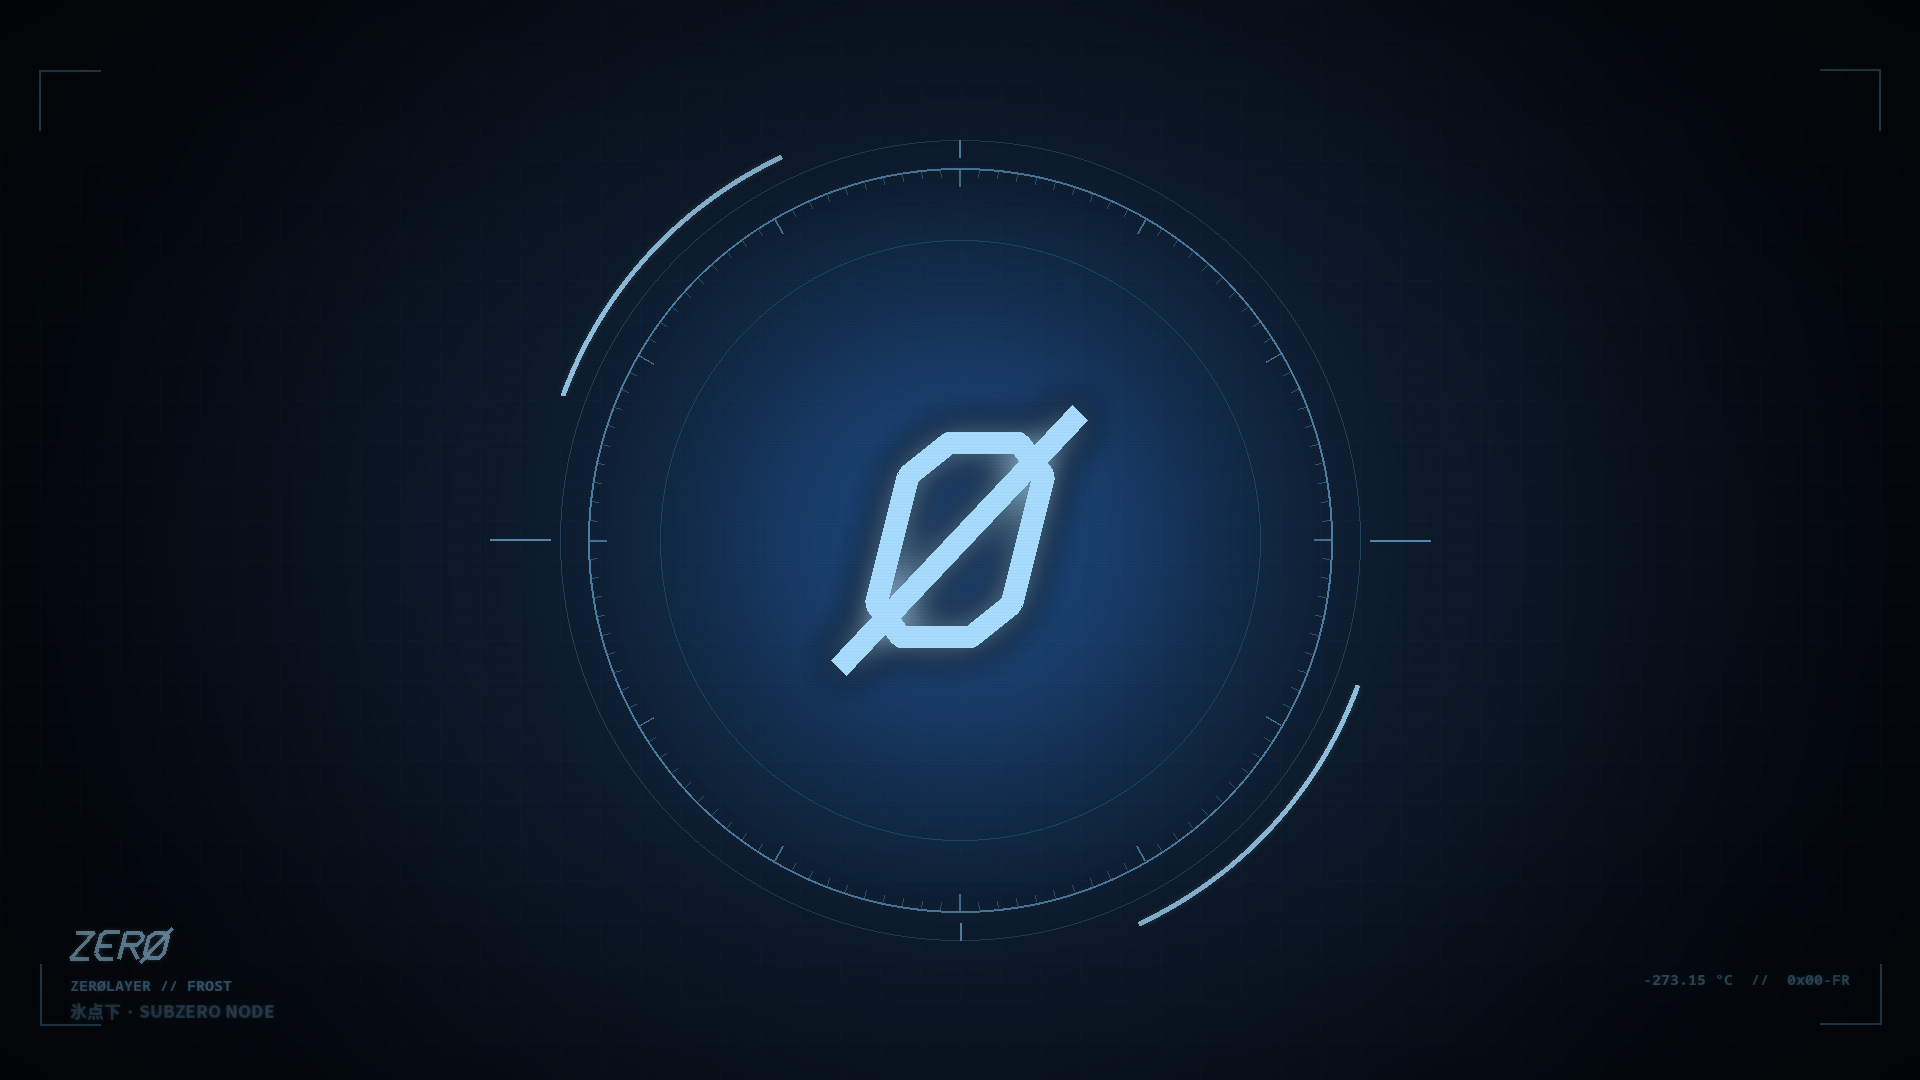
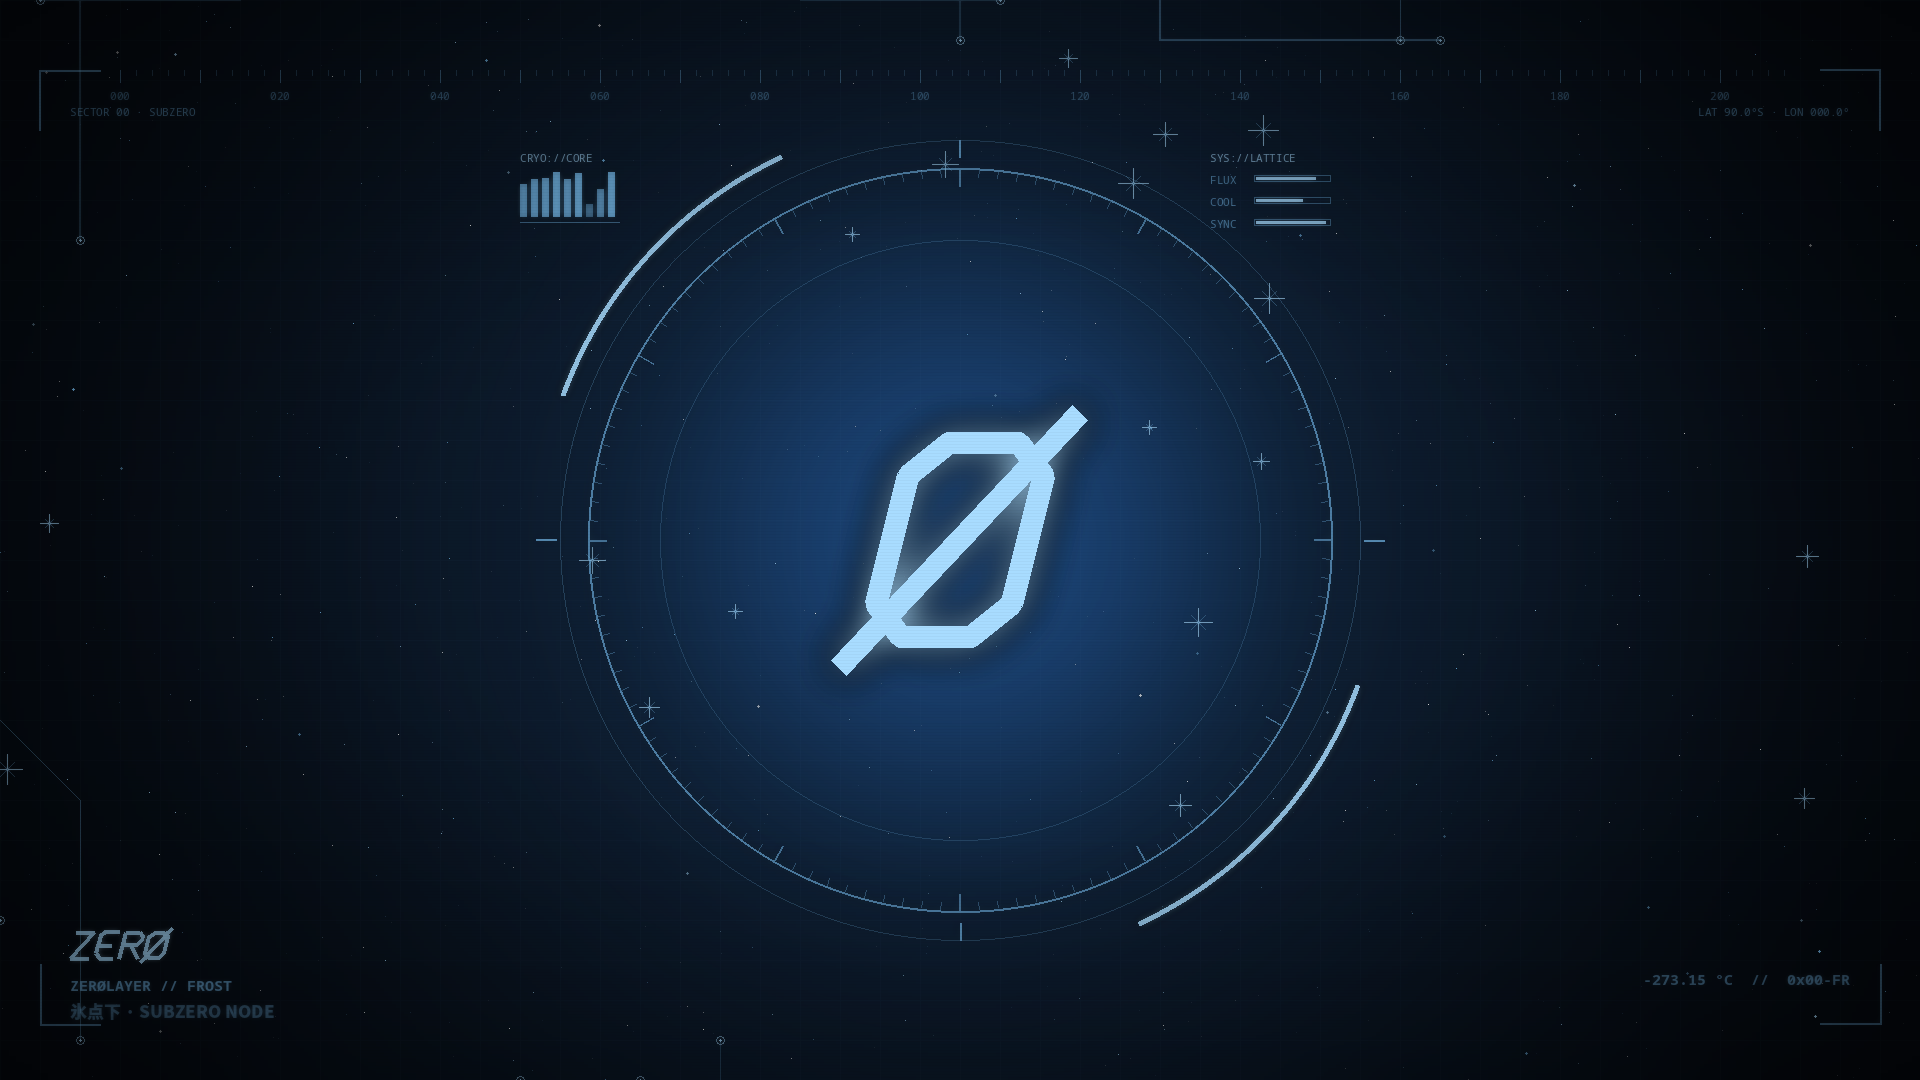
ZerØLayer 0.5.0: tema zero-mono y fondo de Frost con más detalle, sin tapar los widgets

Changed region(s): [[0.25, 0.1528, 0.3438, 0.2139], [0.625, 0.1528, 0.6875, 0.2139]]

diff --git a/modules/theme/generar.py b/modules/theme/generar.py
@@ -92,6 +92,17 @@ TEMAS = {
         hyprland_active_border="rgba(a879ffee) rgba(5de4c7ee) 45deg", hyprland_inactive_border="#221a38",
         superficie="#13101e", borde="#221a38", tenue="#8a82a3", acento2="#5de4c7", ok="#7fe0a8", aviso="#f2d07a", peligro="#ff6e8a",
     ),
+    "zero-mono": dict(
+        nombre="ZERØ Mono", kanji="無", yaru="Yaru", icono="Zero-Mono",
+        idea="Negro puro con luz blanca: retícula, anillos finos y un Ø de tiza.",
+        background="#050505", dark_background="#030303", darker_background="#010101", lighter_background="#101010",
+        foreground="#d8d8d8", dark_foreground="#8a8a8a", light_foreground="#ececec", bright_foreground="#ffffff",
+        accent="#f2f2f2", selection="#2a2a2a", muted="#5c5c5c",
+        red="#e08a8a", yellow="#d9cfa0", orange="#d9b08a", green="#a3c9ab", cyan="#a6cfd6", blue="#a9b8d6", magenta="#c6b0d6", brown="#9a8a7a",
+        bright_red="#f2a8a8", bright_yellow="#ece3b8", bright_green="#bfe0c6", bright_cyan="#c4e4ea", bright_blue="#c6d2ea", bright_magenta="#dccbea",
+        hyprland_active_border="#f2f2f2", hyprland_inactive_border="#262626",
+        superficie="#101010", borde="#262626", tenue="#8a8a8a", acento2="#bdbdbd", ok="#a3c9ab", aviso="#d9cfa0", peligro="#e08a8a",
+    ),
 }
 CLAVES_OMARCHY = ["accent", "selection", "muted", "background", "dark_background", "darker_background", "lighter_background",
                   "foreground", "dark_foreground", "light_foreground", "bright_foreground",
@@ -280,6 +291,23 @@ def codigo_barras(d, x, y, w, h, semilla, col, a):
         cx += bw + rnd.choice([2, 3, 4])
 
 
+# Zonas que tapan los widgets del escritorio (layout de ZerØLayer, coordenadas lógicas de 1536×960):
+# columna izquierda, columna derecha y banda del espectro. Los fondos no dibujan detalles ahí.
+def zonas(W, H, m=0):
+    f = lambda x0, y0, x1, y1: (x0 / 1536 * W - m, y0 / 960 * H - m, x1 / 1536 * W + m, y1 / 960 * H + m)
+    return [f(80, 100, 380, 710), f(1110, 100, 1425, 785), f(80, 800, 1456, 910)]
+
+
+def toca_zona(pts, W, H, m=0):
+    zs = zonas(W, H, m)
+    for (ax, ay), (bx, by) in zip(pts, pts[1:] or pts):
+        for k in range(25):
+            x, y = ax + (bx - ax) * k / 24, ay + (by - ay) * k / 24
+            if any(z[0] <= x <= z[2] and z[1] <= y <= z[3] for z in zs):
+                return True
+    return False
+
+
 SK = math.tan(math.radians(14))
 OCTO = [(424, 60), (470, 60), (492, 82), (492, 168), (470, 190), (424, 190), (402, 168), (402, 82)]
 
@@ -336,6 +364,30 @@ def fondo_frost(W, H, t):
     img = brillo(img, ov, S(3))
     halo, hd = capa(W, H); hd.ellipse([CX - S(340), CY - S(340), CX + S(340), CY + S(340)], fill=(40, 110, 200, 90))
     img = Image.alpha_composite(img, halo.filter(ImageFilter.GaussianBlur(S(120))))
+    # circuitos: pistas PCB con nodos, fuera del anillo central
+    ov, d = capa(W, H)
+    for k, pts in enumerate([p for p in pistas(W, H, 120, S(40), 7, (CX - S(500), CY - S(470), CX + S(500), CY + S(470)))
+                             if not toca_zona(p, W, H, S(16))]):
+        d.line(pts, fill=ICE + (46 if k % 3 else 80,), width=S(2) if k % 5 == 0 else 1, joint="curve")
+        for (px_, py_) in (pts[0], pts[-1]):
+            r = S(4)
+            d.ellipse([px_ - r, py_ - r, px_ + r, py_ + r], outline=ICE2 + (120,), width=1)
+            d.ellipse([px_ - 1, py_ - 1, px_ + 1, py_ + 1], fill=ICE2 + (190,))
+    img = brillo(img, ov, S(2))
+    # nieve y chispas de hielo
+    ov, d = capa(W, H); rnd = random.Random(11)
+    for _ in range(int(900 * W * H / (1920 * 1080))):
+        x, y = rnd.randrange(W), rnd.randrange(H); a = int(rnd.random() ** 3 * 190) + 20
+        c = rnd.choice([(255, 255, 255), ICE2, ICE])
+        if rnd.random() < .05: d.ellipse([x - 1, y - 1, x + 1, y + 1], fill=c + (min(255, a + 60),))
+        else: d.point((x, y), fill=c + (a,))
+    for _ in range(40):
+        x, y = rnd.randrange(W), rnd.randrange(H); L = S(rnd.randint(7, 15))
+        if toca_zona([(x - L, y - L), (x + L, y + L)], W, H, S(8)): continue
+        d.line([(x - L, y), (x + L, y)], fill=ICE2 + (150,), width=1); d.line([(x, y - L), (x, y + L)], fill=ICE2 + (150,), width=1)
+        d.line([(x - L // 2, y - L // 2), (x + L // 2, y + L // 2)], fill=ICE + (70,), width=1)
+        d.line([(x - L // 2, y + L // 2), (x + L // 2, y - L // 2)], fill=ICE + (70,), width=1)
+    img = brillo(img, ov, 1)
     ov, d = capa(W, H)
     for r, a, wd in [(S(400), 55, S(1)), (S(372), 150, S(2)), (S(300), 45, S(1))]:
         d.ellipse([CX - r, CY - r, CX + r, CY + r], outline=ICE + (a,), width=wd)
@@ -348,7 +400,7 @@ def fondo_frost(W, H, t):
     for a0, a1 in ((200, 245), (20, 65)):
         d.arc([CX - R, CY - R, CX + R, CY + R], a0, a1, fill=ICE2 + (210,), width=S(5))
     for sg in (-1, 1):
-        d.line([(CX + sg * S(410), CY), (CX + sg * S(470), CY)], fill=ICE + (170,), width=S(2))
+        d.line([(CX + sg * S(404), CY), (CX + sg * S(424), CY)], fill=ICE + (170,), width=S(2))
         d.line([(CX, CY + sg * S(383)), (CX, CY + sg * S(400))], fill=ICE + (170,), width=S(2))
     img = brillo(img, ov, S(4))
     E, d = capa(W, H)
@@ -361,6 +413,28 @@ def fondo_frost(W, H, t):
     d.text((S(70), H - S(82)), "氷点下 · SUBZERO NODE", font=fk, fill=ICE + (90,))
     d.text((W - S(70), H - S(112)), "-273.15 °C  //  0x00-FR", font=fm, fill=ICE + (120,), anchor="ra")
     esquinas(d, (S(40), S(70), W - S(40), H - S(56)), S(60), ICE, 110, S(2))
+    # regla superior con marcas
+    fr = fuente(F_MONO_R, S(11))
+    for i, x in enumerate(range(S(120), W - S(120), S(16))):
+        L = S(12) if i % 5 == 0 else S(5)
+        d.line([(x, S(70)), (x, S(70) + L)], fill=ICE + (90 if i % 5 == 0 else 50,), width=1)
+        if i % 10 == 0: d.text((x, S(70) + S(18)), "%03d" % (i * 2), font=fr, fill=ICE + (90,), anchor="ma")
+    # lecturas compactas en las esquinas del hueco central (entre las columnas de widgets)
+    rr = random.Random(5); px0, py0 = CX - S(440), S(150)
+    d.text((px0, py0), "CRYO://CORE", font=fr, fill=ICE2 + (150,))
+    for i in range(9):
+        hh = int(S(46) * (.25 + .75 * rr.random()))
+        d.rectangle([px0 + i * S(11), py0 + S(66) - hh, px0 + i * S(11) + S(6), py0 + S(66)], fill=ICE + (70 + int(120 * hh / S(46)),))
+    d.line([(px0, py0 + S(72)), (px0 + 9 * S(11), py0 + S(72))], fill=ICE + (110,), width=1)
+    qx, qy = CX + S(250), S(150)
+    d.text((qx, qy), "SYS://LATTICE", font=fr, fill=ICE2 + (150,))
+    for i, (n, v) in enumerate([("FLUX", .82), ("COOL", .64), ("SYNC", .97)]):
+        y = qy + S(22) + i * S(22)
+        d.text((qx, y), n, font=fr, fill=ICE + (130,))
+        d.rectangle([qx + S(44), y + S(3), qx + S(120), y + S(9)], outline=ICE + (90,), width=1)
+        d.rectangle([qx + S(46), y + S(5), qx + S(46) + int(S(72) * v), y + S(7)], fill=ICE2 + (190,))
+    d.text((S(70), S(104)), "SECTOR 00 · SUBZERO", font=fr, fill=ICE + (110,))
+    d.text((W - S(70), S(104)), "LAT 90.0°S · LON 000.0°", font=fr, fill=ICE + (110,), anchor="ra")
     img = brillo(img, ov, S(3))
     return lineas_barrido(vineta(img, .55), 8)
 
@@ -642,8 +716,63 @@ def fondo_void(W, H, t):
     return vineta(img, .6)
 
 
+def fondo_mono(W, H, t):
+    s = min(W / 1920, H / 1080); S = lambda v: max(1, int(v * s)); CX, CY = W // 2, H // 2
+    B, G = (245, 245, 245), (150, 150, 150)
+    img = radial(W, H, (0, 0, 0), (20, 20, 20), 2.2)
+    ov, d = capa(W, H)
+    for x in range(0, W, S(48)):
+        for y in range(0, H, S(48)):
+            d.point((x, y), fill=B + (60,))
+            if (x // S(48) + y // S(48)) % 8 == 0:
+                d.line([(x - 3, y), (x + 3, y)], fill=B + (90,)); d.line([(x, y - 3), (x, y + 3)], fill=B + (90,))
+    img = brillo(img, ov, 0)
+    halo, hd = capa(W, H); hd.ellipse([CX - S(300), CY - S(300), CX + S(300), CY + S(300)], fill=(255, 255, 255, 34))
+    img = Image.alpha_composite(img, halo.filter(ImageFilter.GaussianBlur(S(140))))
+    ov, d = capa(W, H)
+    for r, a, wd in [(S(385), 40, 1), (S(355), 70, S(1)), (S(290), 40, 1), (S(225), 55, 1)]:
+        d.ellipse([CX - r, CY - r, CX + r, CY + r], outline=B + (a,), width=wd)
+    for deg in range(0, 360, 2):
+        a = math.radians(deg); r0 = S(355); L = S(18) if deg % 30 == 0 else (S(9) if deg % 10 == 0 else S(4))
+        d.line([(CX + math.cos(a) * r0, CY + math.sin(a) * r0), (CX + math.cos(a) * (r0 + L), CY + math.sin(a) * (r0 + L))],
+               fill=B + (150 if deg % 30 == 0 else 70,), width=1)
+    R = S(385)
+    for a0, a1 in ((-100, -40), (80, 140), (170, 182)):
+        d.arc([CX - R, CY - R, CX + R, CY + R], a0, a1, fill=B + (230,), width=S(5))
+    d.line([(CX, CY - S(420)), (CX, CY - S(480))], fill=B + (140,), width=1)
+    img = brillo(img, ov, S(2))
+    E, d = capa(W, H)
+    o_barra(d, CX, CY, 1.9 * s, B, 255, S(5))
+    img = brillo(img, E, S(26), 2)
+    E, d = capa(W, H)
+    o_barra(d, CX, CY, 1.9 * s, B, 255, S(4))
+    img = Image.alpha_composite(img, E)
+    ov, d = capa(W, H); fm = fuente(F_MONO, S(15)); fr = fuente(F_MONO_R, S(12)); fk = fuente(F_CJK, S(17))
+    logotipo(d, S(70), H - S(148), S(26), B, 230, S(4))
+    d.text((S(70), H - S(106)), "ZERØLAYER // MONO", font=fm, fill=B + (170,))
+    d.text((S(70), H - S(82)), "無 · BLACK / WHITE", font=fk, fill=B + (110,))
+    d.text((W - S(70), H - S(112)), "#000000  //  #F2F2F2", font=fm, fill=B + (140,), anchor="ra")
+    esquinas(d, (S(40), S(70), W - S(40), H - S(56)), S(60), B, 140, S(2))
+    d.text((S(70), S(98)), "REF 0000-ZERO", font=fr, fill=B + (130,))
+    d.text((W - S(70), S(98)), "N 00°00′00″  E 000°00′00″", font=fr, fill=B + (130,), anchor="ra")
+    rr = random.Random(21); px0, py0 = CX - S(440), S(150)
+    d.text((px0, py0), "MONO://LEVEL", font=fr, fill=B + (150,))
+    for i in range(12):
+        x = px0 + i * S(9); hh = int(S(46) * (.15 + .85 * rr.random()))
+        d.rectangle([x, py0 + S(66) - hh, x + S(4), py0 + S(66)], fill=B + (60 + int(110 * hh / S(46)),))
+    codigo_barras(d, CX + S(250), S(150), S(110), S(26), 9, B, 120)
+    d.text((CX + S(250), S(184)), "00 / 00 / 00", font=fr, fill=B + (130,))
+    img = brillo(img, ov, S(2))
+    # grano
+    rnd = random.Random(8); gr, d = capa(W, H)
+    for _ in range(int(2400 * W * H / (1920 * 1080))):
+        d.point((rnd.randrange(W), rnd.randrange(H)), fill=(255, 255, 255, rnd.randint(8, 40)))
+    img = Image.alpha_composite(img, gr)
+    return vineta(img, .7)
+
+
 FONDOS = {"zero-frost": fondo_frost, "zero-corp": fondo_corp, "zero-neon": fondo_neon,
-          "zero-phosphor": fondo_phosphor, "zero-amber": fondo_amber, "zero-void": fondo_void}
+          "zero-phosphor": fondo_phosphor, "zero-amber": fondo_amber, "zero-void": fondo_void, "zero-mono": fondo_mono}
 
 
 def vista_previa(tid, t, fondo):

diff --git a/README.md b/README.md
@@ -33,7 +33,7 @@ git clone https://github.com/raulplz/ZeroLayer.git ~/.local/share/zerolayer
 
 | Módulo | Por defecto | Qué hace |
 |---|---|---|
-| `theme` | sí | Seis temas ZERØ para Omarchy (`zero-frost`, `zero-corp`, `zero-neon`, `zero-phosphor`, `zero-amber`, `zero-void`) con paleta, fondo a la resolución de tu monitor e iconos de carpeta propios. Escribe `~/.config/zerolayer/theme.json` al cambiar de tema (ver «Temas ZERØ»). |
+| `theme` | sí | Siete temas ZERØ para Omarchy (`zero-frost`, `zero-corp`, `zero-neon`, `zero-phosphor`, `zero-amber`, `zero-void`, `zero-mono`) con paleta, fondo a la resolución de tu monitor e iconos de carpeta propios. Escribe `~/.config/zerolayer/theme.json` al cambiar de tema (ver «Temas ZERØ»). |
 | `hyprland` | sí | Esquinas de 14 px, márgenes, desenfoque, atenuado leve de ventanas inactivas y animación de escritorios en deslizamiento. |
 | `gtk` | sí | Colores Frost en aplicaciones GTK3/GTK4 (Nautilus, ajustes…). |
 | `boot` | no | Arranque que sigue al tema activo: menú de Limine (colores, tu fondo de escritorio y datos del sistema) y pantallas de contraseña de disco y de sesión con el logo ZERØ. Pide sudo una vez para instalar un servicio de systemd. |
@@ -44,16 +44,17 @@ git clone https://github.com/raulplz/ZeroLayer.git ~/.local/share/zerolayer
 
 ## Temas ZERØ
 
-El módulo `theme` instala seis temas completos de Omarchy. Cada uno trae su paleta, un fondo a la resolución de tu monitor (1920×1200, 1920×1080 o 2560×1440), sus iconos de carpeta y su vista previa. Por eso también aparecen en el menú nativo de temas de Omarchy (Super + Alt + Espacio → Estilo → Tema).
+El módulo `theme` instala siete temas completos de Omarchy. Cada uno trae su paleta, un fondo a la resolución de tu monitor (1920×1200, 1920×1080 o 2560×1440), sus iconos de carpeta y su vista previa. Por eso también aparecen en el menú nativo de temas de Omarchy (Super + Alt + Espacio → Estilo → Tema).
 
 | Tema | Nombre | Acento | Idea |
 |---|---|---|---|
-| `zero-frost` | ZERØ Frost | `#4da3ff` | Azul hielo sobre negro, anillo HUD y circuitos. Es el de siempre. |
+| `zero-frost` | ZERØ Frost | `#4da3ff` | Azul hielo sobre negro: anillo HUD, circuitos, nieve y paneles de lectura. Es el de siempre. |
 | `zero-corp` | ZERØ Corp | `#e8182c` | Rojo y negro corporativo, kanji 零, katakana y franjas de seguridad. |
 | `zero-neon` | ZERØ Neon | `#ff2bd6` | Barrio de neón con lluvia y rejilla al horizonte; cian `#22e5ff` como segundo acento. |
 | `zero-phosphor` | ZERØ Phosphor | `#39ff6a` | Terminal de fósforo verde, líneas de barrido y brillo de tubo. |
 | `zero-amber` | ZERØ Amber | `#ffb000` | Laboratorio de señal en ámbar, retícula de osciloscopio. |
 | `zero-void` | ZERØ Void | `#a879ff` | Vacío ultravioleta, nebulosa y un Ø enorme. |
+| `zero-mono` | ZERØ Mono | `#f2f2f2` | Negro puro con detalles en blanco: retícula, anillos finos y un Ø de tiza. |
 
 ![Escritorio con ZERØ Frost, Corp y Neon](docs/img/escritorio-frost.png)
 
